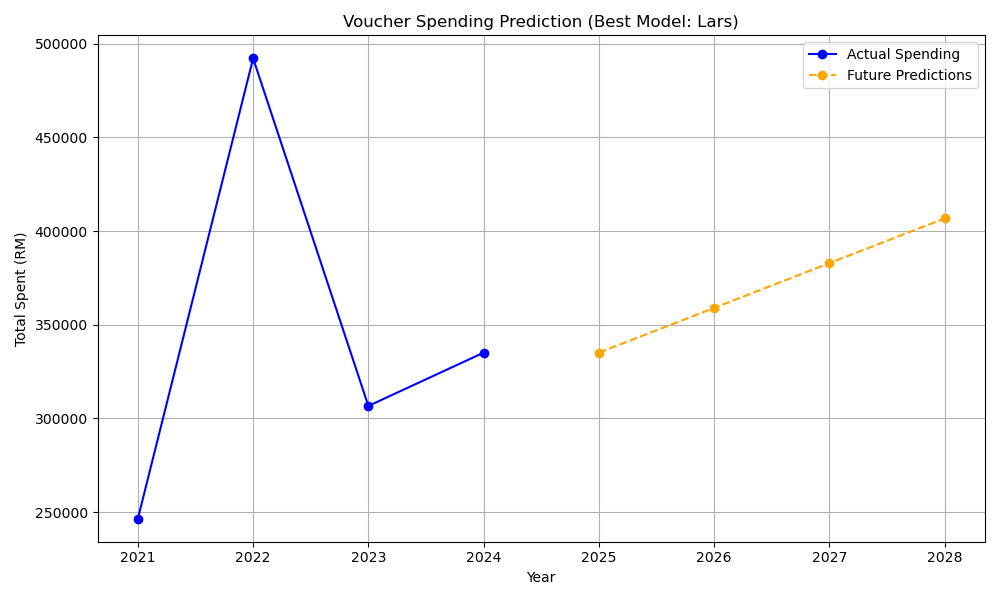
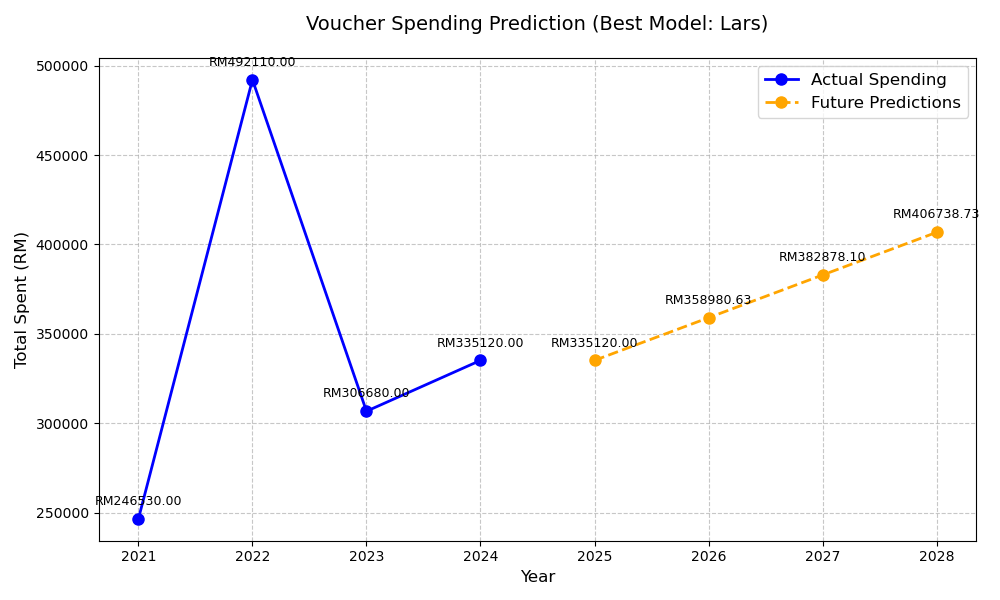
modified:   __pycache__/smartspend_app.cpython-39.pyc 	modified:   model/__pycache__/voucher_prediction_model.cpython-39.pyc 	modified:   smartspend_app.py 	modified:   static/prediction_plot.png

diff --git a/smartspend_app.py b/smartspend_app.py
@@ -104,16 +104,48 @@ def render_prediction(result):
     processed_df = pd.DataFrame(result['historical_data'])
 
     plt.figure(figsize=(10, 6))
-    plt.plot(processed_df['Year'], processed_df['TotalSpent'], marker='o', label='Actual Spending', color='blue')
-    plt.plot(result['future_years'], result['future_predictions'], marker='o', linestyle='--', label='Future Predictions', color='orange')
-
-    plt.title(f"Voucher Spending Prediction (Best Model: {result['model_type']})")
-    plt.xlabel("Year")
-    plt.ylabel("Total Spent (RM)")
-    plt.grid(True)
-    plt.legend()
+    
+    # Plot historical data with enhanced markers and labels
+    historical_line = plt.plot(processed_df['Year'], processed_df['TotalSpent'], 
+                             marker='o', markersize=8, label='Actual Spending', 
+                             color='blue', linestyle='-', linewidth=2)
+    
+    # Add data point labels for historical data
+    for x, y in zip(processed_df['Year'], processed_df['TotalSpent']):
+        plt.annotate(f'RM{y:.2f}', 
+                    (x, y),
+                    textcoords="offset points",
+                    xytext=(0,10),
+                    ha='center',
+                    fontsize=9,
+                    color='black')
+    
+    # Plot future predictions with enhanced markers and labels
+    future_line = plt.plot(result['future_years'], result['future_predictions'], 
+                          marker='o', markersize=8, linestyle='--', 
+                          label='Future Predictions', color='orange', linewidth=2)
+    
+    # Add data point labels for future predictions
+    for x, y in zip(result['future_years'], result['future_predictions']):
+        plt.annotate(f'RM{y:.2f}', 
+                    (x, y),
+                    textcoords="offset points",
+                    xytext=(0,10),
+                    ha='center',
+                    fontsize=9,
+                    color='black')
+    
+    plt.title(f"Voucher Spending Prediction (Best Model: {result['model_type']})", fontsize=14, pad=20)
+    plt.xlabel("Year", fontsize=12)
+    plt.ylabel("Total Spent (RM)", fontsize=12)
+    plt.grid(True, linestyle='--', alpha=0.7)
+    plt.legend(fontsize=12)
+    
+    # Adjust layout to prevent label cutoff
     plt.tight_layout()
-    plt.savefig(plot_path)
+    
+    # Save plot with higher DPI for better quality
+    plt.savefig(plot_path, dpi=100)
     plt.close()
 
     plot_url = url_for('static', filename=plot_filename) + f"?v={datetime.datetime.now().timestamp()}"
@@ -129,6 +161,3 @@ def render_prediction(result):
     )
 
     return render_template('frontend_design.html', prediction=prediction_text, plot_url=plot_url)
-
-if __name__ == '__main__':
-    app.run(debug=True)
